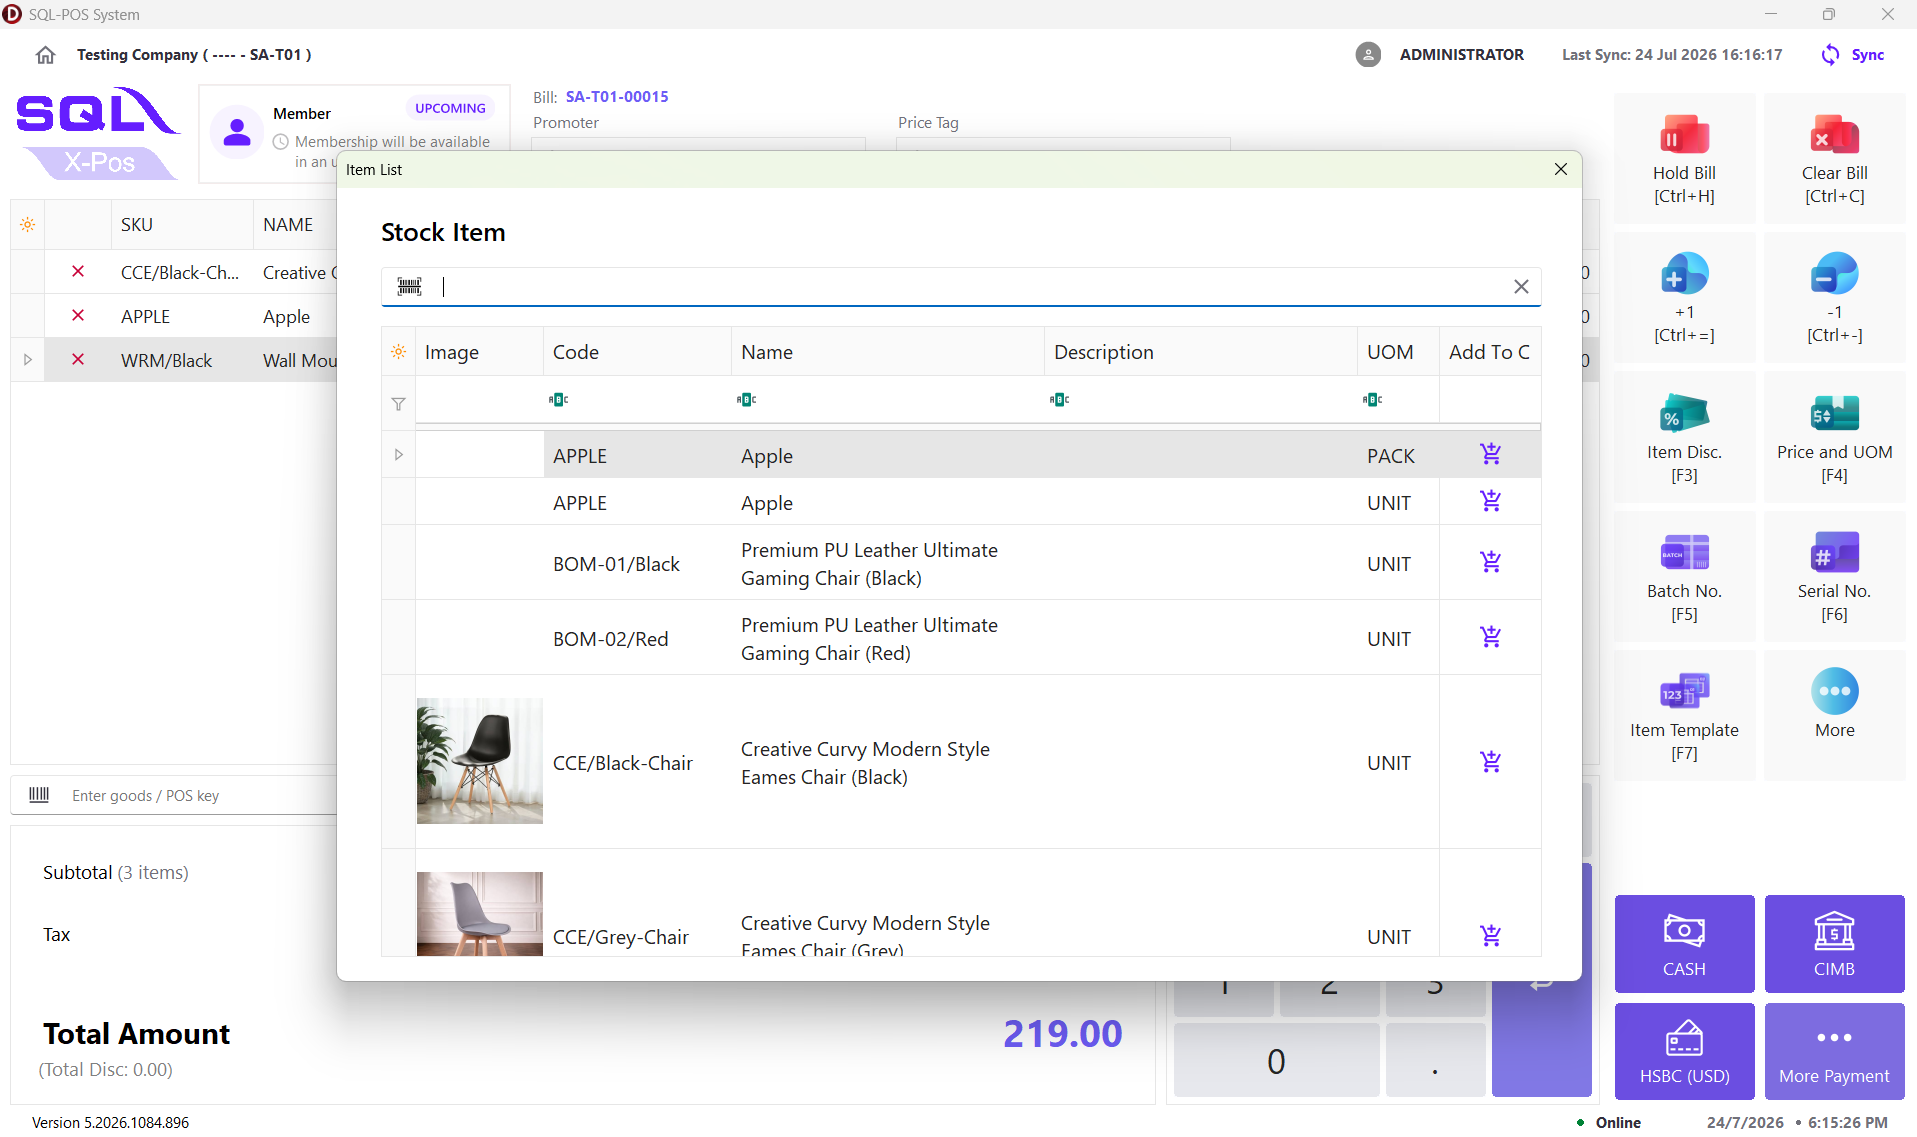
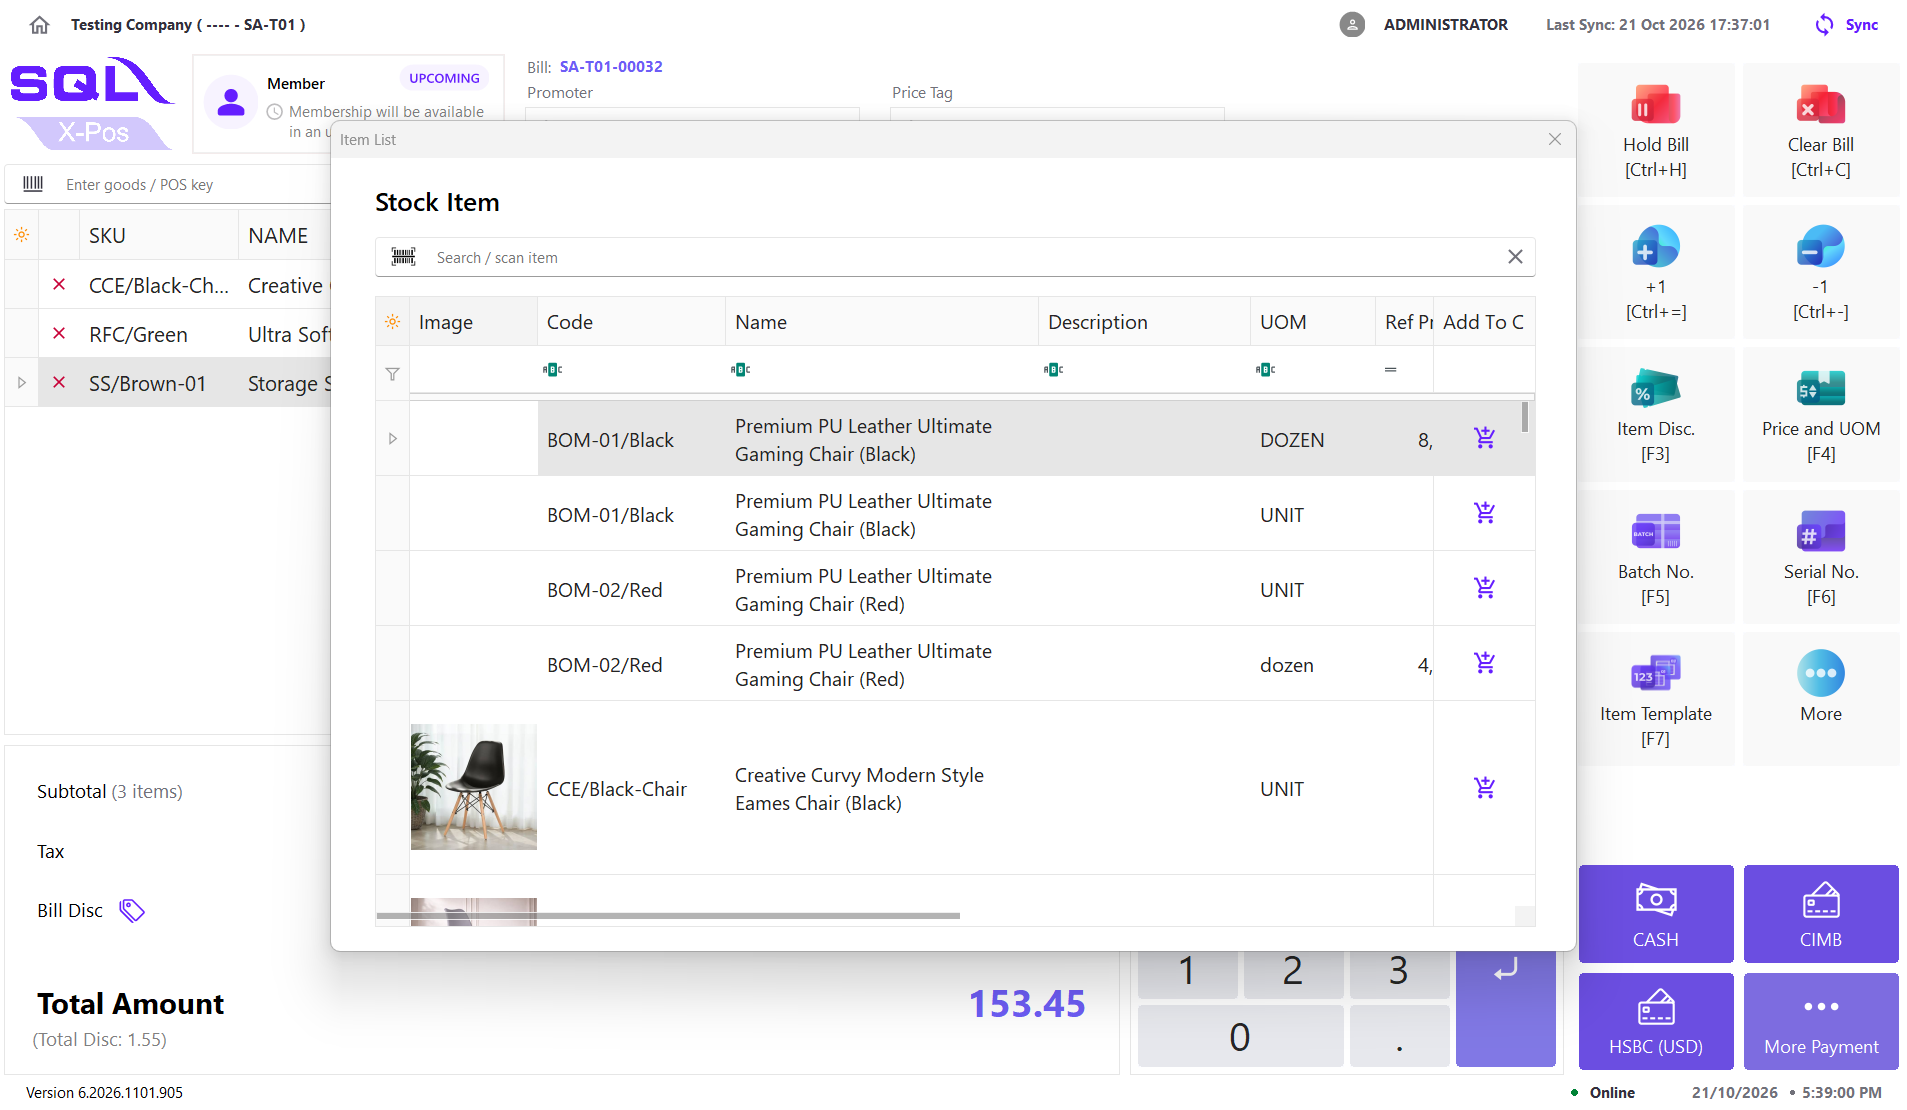
update: x-pos checkout documentation(wip)

diff --git a/docs/integration/xpos/checkout-screen.md b/docs/integration/xpos/checkout-screen.md
@@ -32,11 +32,29 @@ The item entry and cart section is the main area where users manage items in the
 **Search Field**:
 
 1. Help key - can refer to **Main Menu** -> **Setting** -> **Shortcuts Configuration** -> **Default Shortcuts**
-2. Add item into the cart by scanning items using a barcode scanner
-3. Add item into the cart by entering the item code
-4. Assign promoter by entering the promoter code
+2. Add item into the cart by entering
+   - barcode
+   - item code
+   - serial number
+3. Assign promoter by entering the promoter code
 
-**Search Button**:
+If multiple items share the same serial number, a dialog box prompts the user to select the item from the list.
+
+![serial-number-item-list](../../../static/img/integration/xpos/checkout/serial-number-item-list.png)
+
+:::warning
+Users cannot add an item if the same serial number has already been assigned to that item in the cart.
+:::
+
+**Arrow Up Button (Shortcut key: Ctrl + Up)**:
+
+Move the item up one position in the sequence of item cart
+
+**Arrow Down Button (Shortcut key: Ctrl + Down)**:
+
+Move the item down one position in the sequence of item cart
+
+**Search Button (Shortcut key: Insert)**:
 
 1. View stock item list
 2. Add item from the item list
@@ -50,6 +68,7 @@ The item entry and cart section is the main area where users manage items in the
 | X               | Remove item from the cart            |
 | SKU             | Item code                            |
 | Name            | Item description                     |
+| Desc 2          | Item description                     |
 | UOM             | Unit of measure                      |
 | Group           | Item template                        |
 | Batch No.       | Batch number for inventory tracking  |
@@ -65,12 +84,21 @@ The item entry and cart section is the main area where users manage items in the
 
 The sales summary section displays the current transaction calculation.
 
-| Field        | Description                                |
-| ------------ | ------------------------------------------ |
-| Subtotal     | Total amount after discount and before tax |
-| Tax          | Total tax amount applied                   |
-| Total Disc   | Total discount applied to the transaction  |
-| Total Amount | Final amount payable by customer           |
+| Field        | Description                                     |
+| ------------ | ----------------------------------------------- |
+| Subtotal     | Total amount after item discount and before tax |
+| Tax          | Total tax amount applied                        |
+| Bill Disc    | Total bill discount amount applied              |
+| Total Disc   | Total discount applied to the transaction       |
+| Total Amount | Final amount payable by customer                |
+
+Users can click this icon to open the Bill Discount dialog box
+
+![sales-summary](../../../static/img/integration/xpos/checkout/sales-summary.png)
+
+![promo-bill-disc](../../../static/img/integration/xpos/checkout/promo-bill-disc.png)
+
+![manual-bill-disc](../../../static/img/integration/xpos/checkout/manual-bill-disc.png)
 
 ### Item Operation Buttons (Right side)
 
